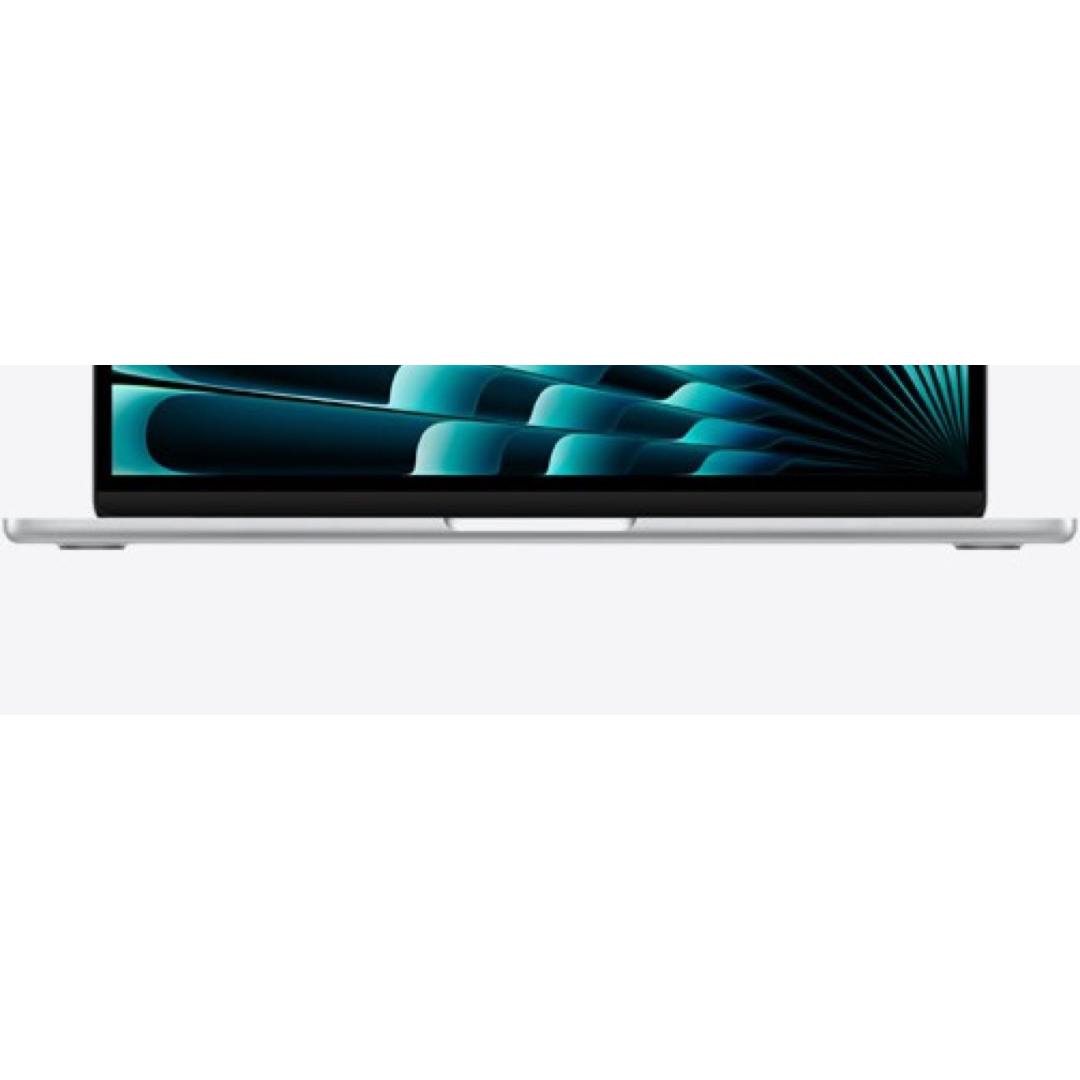
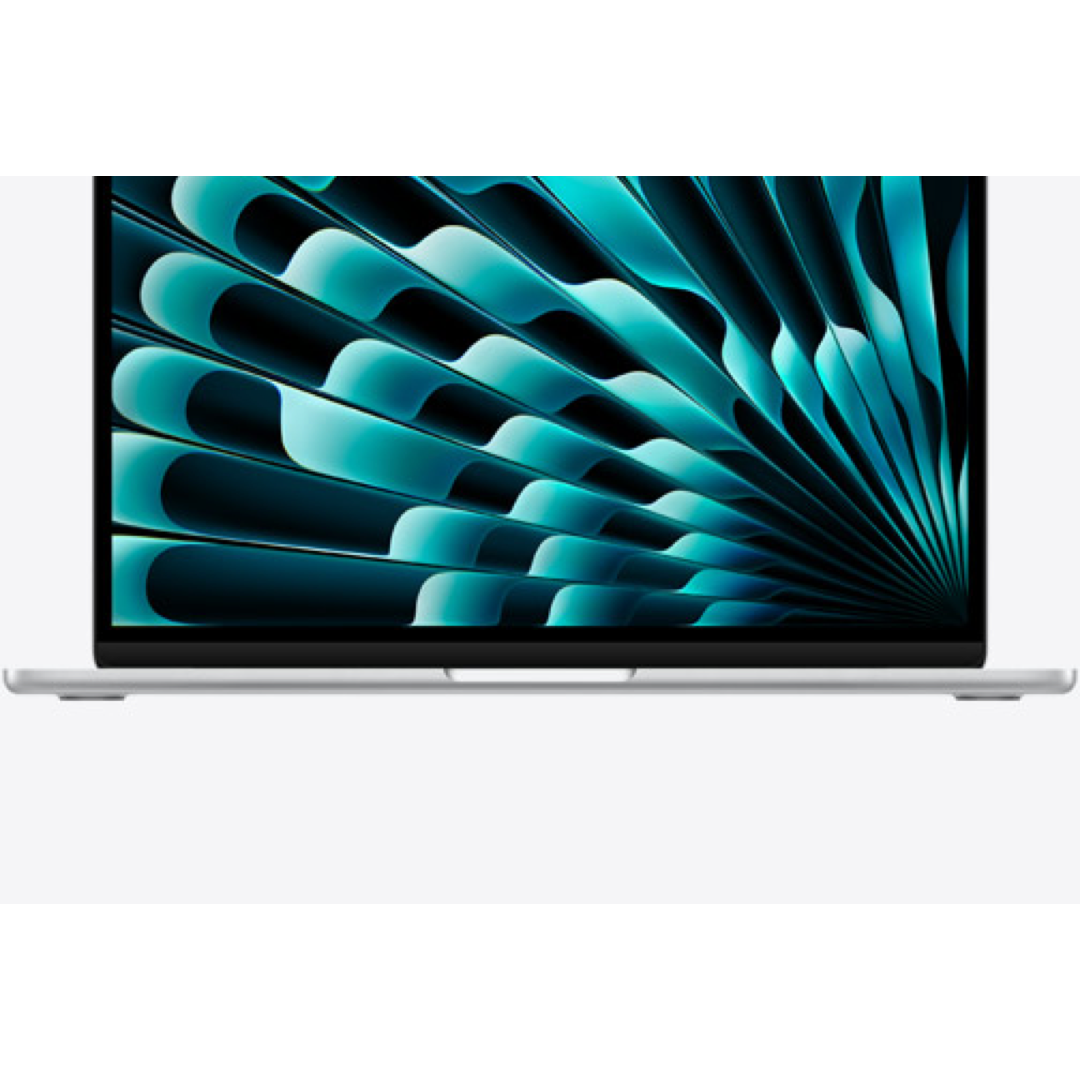
Corrige imágenes Air y visibilidad Mac mini en catálogo Mac
- macbook-air-medianoche/plata/blanco-estrella: imagen frontal abierta
  recortada del compuesto oficial de Apple (y=60-400/504×876) y escalada
  a 1080×1080 con fondo blanco, en el mismo estilo que macbook-neo-plata.
- macbook-air-skyblue: sustituida por macbook-air-m4-photo.png (imagen
  frontal ya correcta de 1080×1080).
- FamilyPage nav: cambiado de overflow-x-auto horizontal a flex-wrap
  justify-center para que todos los modelos (incluido Mac mini) sean
  visibles sin scroll. Añadido imageBg como backgroundColor del span del
  thumbnail para que el iMac 24" M4 muestre su fondo de color correcto.

diff --git a/src/pages/FamilyPage.tsx b/src/pages/FamilyPage.tsx
@@ -134,15 +134,18 @@ function ShowcaseFamilyPage({ family, models }: { family: Family; models: Model[
             </p>
           </div>
 
-          <nav aria-label={`Modelos de ${family.name}`} className="mt-8 overflow-x-auto pb-2 no-scrollbar">
-            <ul className="mx-auto flex w-max min-w-full justify-start gap-3 md:justify-center">
+          <nav aria-label={`Modelos de ${family.name}`} className="mt-8 pb-2">
+            <ul className="flex flex-wrap justify-center gap-3">
               {models.map((model) => (
-                <li key={model.slug} className="w-32 shrink-0 sm:w-36">
+                <li key={model.slug} className="w-32 sm:w-36">
                   <Link
                     to={variantPath(model)}
                     className="group flex flex-col items-center rounded-[16px] border border-transparent px-3 py-3 text-center transition-[background-color,border-color,transform] hover:-translate-y-1 hover:border-line hover:bg-surface"
                   >
-                    <span className="block aspect-square w-full overflow-hidden rounded-[12px] bg-surface">
+                    <span
+                      className="block aspect-square w-full overflow-hidden rounded-[12px] bg-surface"
+                      style={model.colors[0].imageBg ? { backgroundColor: model.colors[0].imageBg } : {}}
+                    >
                       <img
                         src={model.colors[0].image}
                         alt=""
